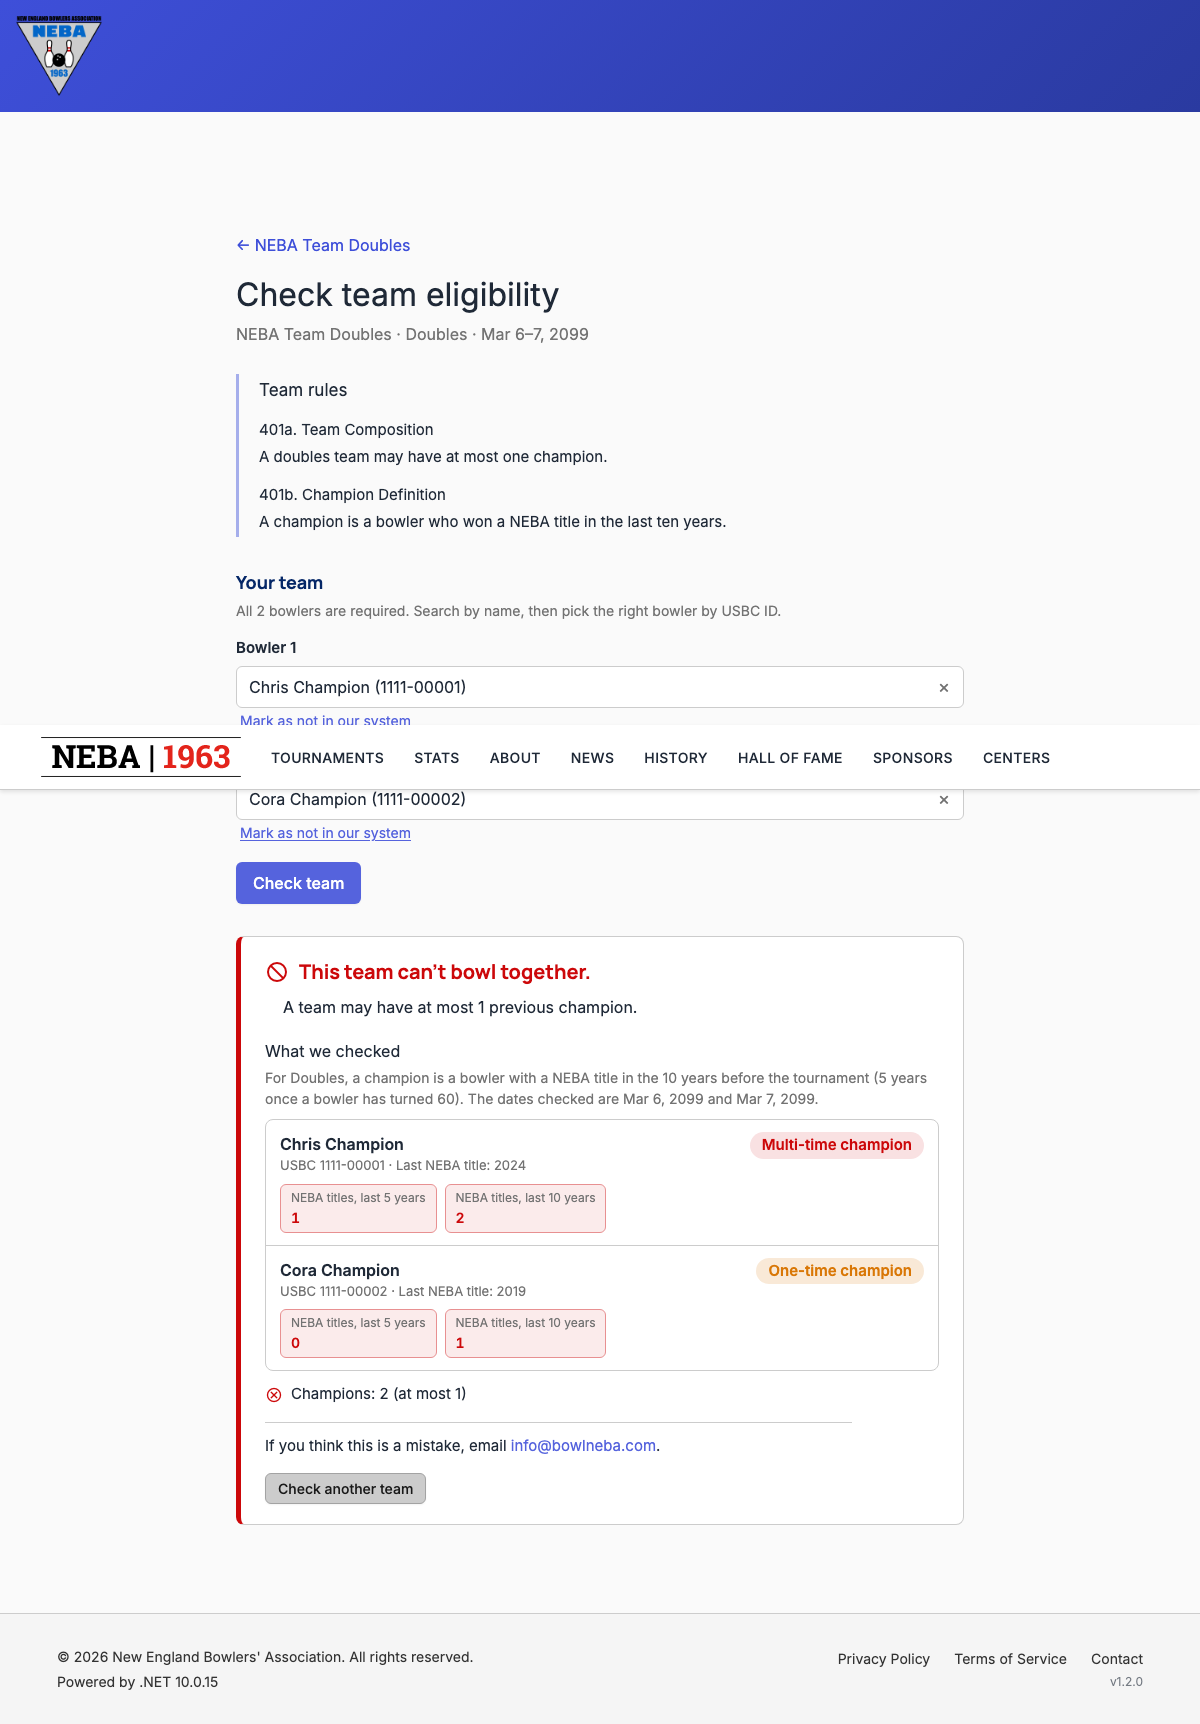
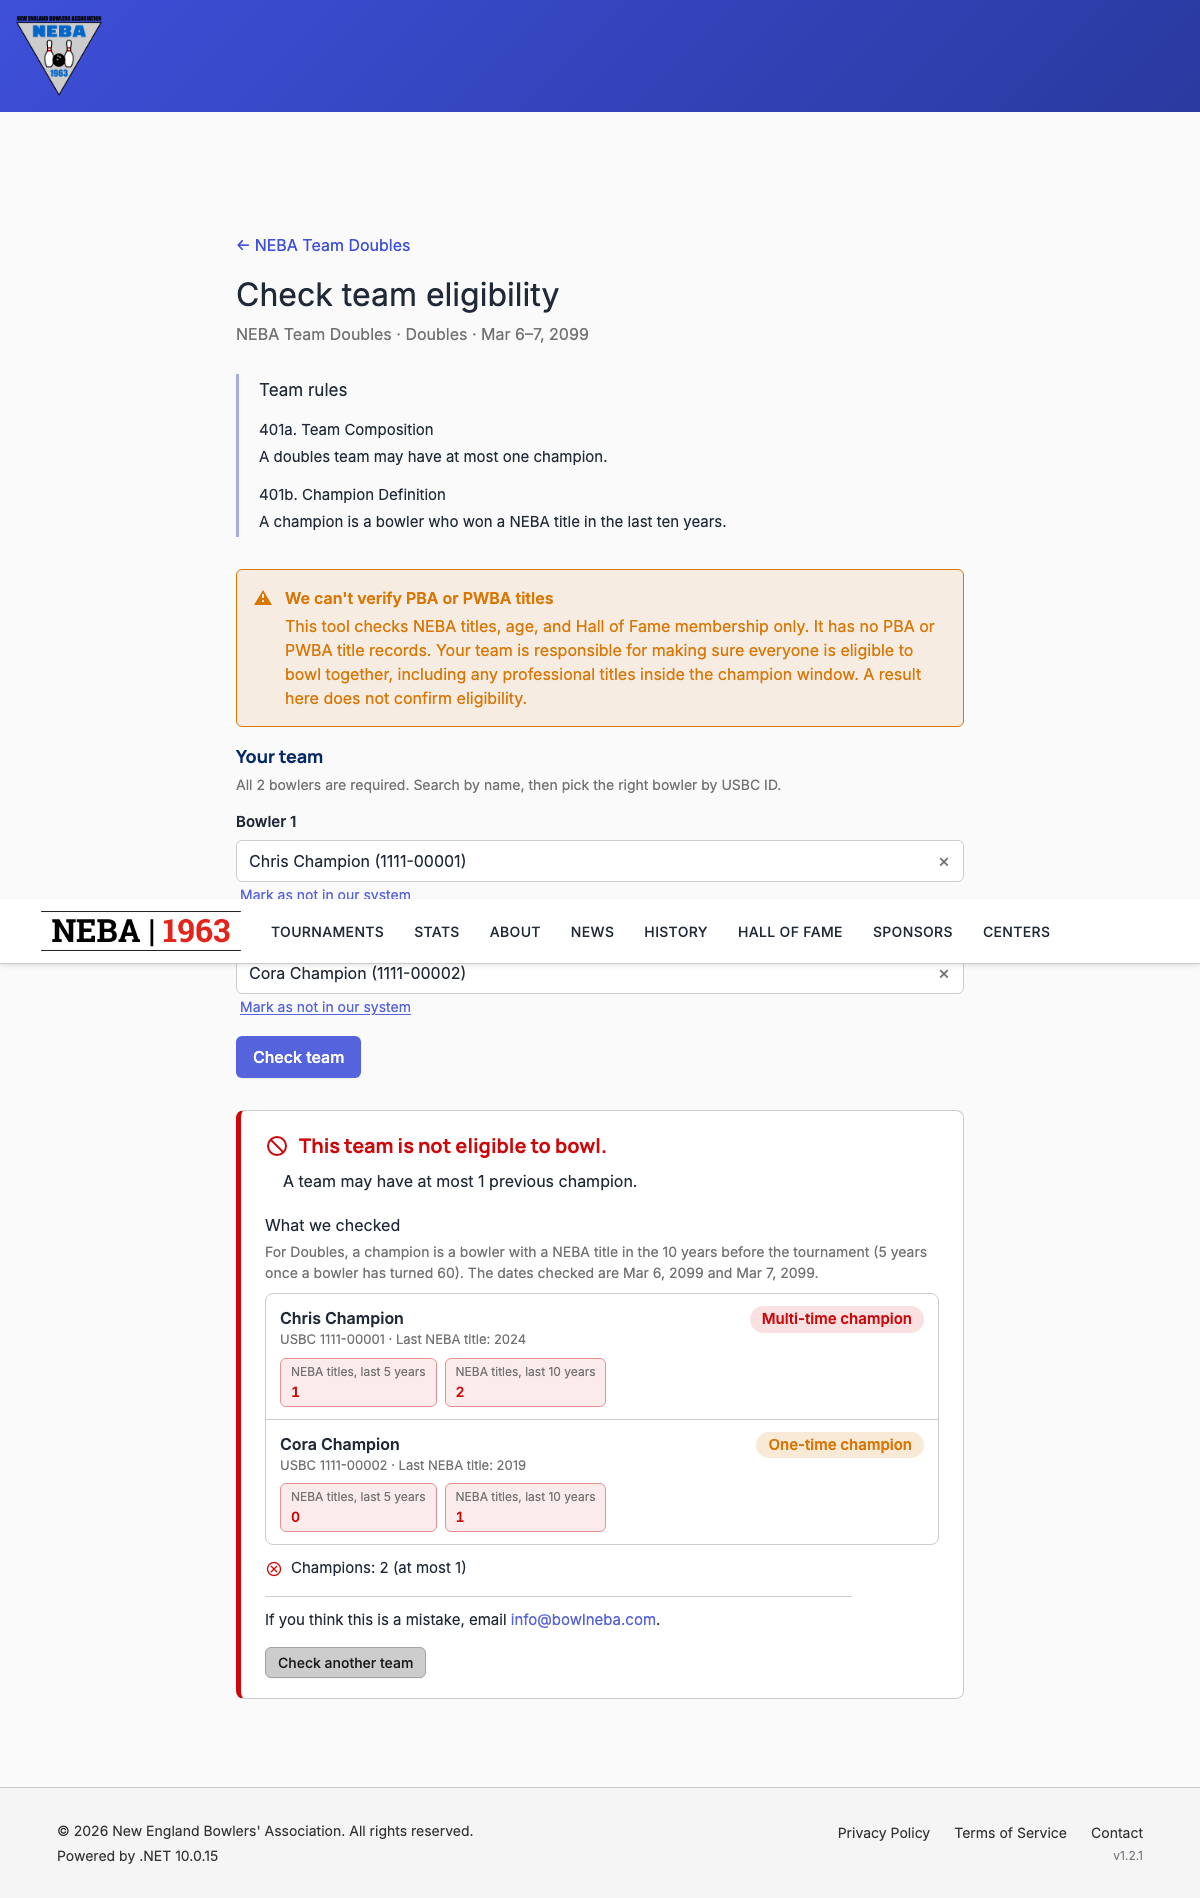
Clarify team eligibility wording and pluralize champion labels (#261)
* Pluralize champion labels by winner count

Use singular winner and champion labels when there is one champion, and plural labels for multiple champions. Update the test factory default and add coverage for both cases.

* Clarify professional-title eligibility warning

Show the PBA/PWBA verification limits before eligibility checks and with passing results. Update the help doc and add a test for the pre-check warning.

* Clarify team eligibility result wording

Use consistent eligibility language in the results panel, help page, and tests.

* Address pre-PR review: screenshots, alert e2e test, shared notice text

Regenerate team eligibility help screenshots and describe the PBA/PWBA
warning in the help doc. Share the notice headline between the alert and
the result note, add an e2e test for the alert, scope existing alert
locators, and move the champion pill label into a property.

* Address code review: share notice body, move note below facts

Share the PBA/PWBA responsibility text between the alert and the result
note, put the note back below the facts so the verdict leads, keep the
defending champions heading singular for an empty list, and fix a stale
XML doc. Regenerate help screenshots.

* Husky: dotnet format

* Set version to 1.3.0

---------

diff --git a/tests/e2e/TeamEligibility.spec.ts b/tests/e2e/TeamEligibility.spec.ts
@@ -38,6 +38,11 @@ test.describe('Team eligibility page', () => {
     await expect(checkTeamButton(page)).toBeDisabled();
   });
 
+  test('warns before the check that PBA and PWBA titles are not verified', async ({ page }) => {
+    await expect(page.locator('.neba-alert-title', { hasText: "We can't verify PBA or PWBA titles" })).toBeVisible();
+    await expect(page.locator('.neba-alert', { hasText: "We can't verify" })).toContainText('A result here does not confirm eligibility.');
+  });
+
   test('has a page title', async ({ page }) => {
     await expect(page).toHaveTitle('Check Team Eligibility - BowlNEBA');
   });
@@ -58,14 +63,14 @@ test.describe('Team eligibility page', () => {
     await expect(page.locator('.neba-autocomplete-option', { hasText: 'Chris Champion (1111-00001)' })).toBeVisible();
   });
 
-  test('says a team that is over the champion limit cannot bowl together, and shows how to ask about it', async ({ page }) => {
+  test('says a team that is over the champion limit is not eligible to bowl, and shows how to ask about it', async ({ page }) => {
     await pickBowler(page, 1, 'chris', 'Chris Champion');
     await pickBowler(page, 2, 'cora', 'Cora Champion');
     await expect(checkTeamButton(page)).toBeEnabled();
 
     await checkTeamButton(page).click();
 
-    await expect(page.locator('.result')).toContainText("This team can't bowl together.");
+    await expect(page.locator('.result')).toContainText("This team is not eligible to bowl.");
     await expect(page.locator('.result')).toContainText('A team may have at most 1 previous champion.');
     await expect(page.locator('.result__contact a')).toHaveAttribute('href', 'mailto:info@bowlneba.com');
   });
@@ -110,13 +115,13 @@ test.describe('Team eligibility page', () => {
     expect(overflows).toBe(false);
   });
 
-  test('says a team that is eligible can bowl together, with a note that pro titles are not checked', async ({ page }) => {
+  test('says a team that is eligible to bowl, with a note that pro titles are not checked', async ({ page }) => {
     await pickBowler(page, 1, 'chris', 'Chris Champion');
     await pickBowler(page, 2, 'nina', 'Nina Newcomer');
 
     await checkTeamButton(page).click();
 
-    await expect(page.locator('.result')).toContainText('This team can bowl together.');
+    await expect(page.locator('.result')).toContainText('This team is eligible to bowl.');
     await expect(page.locator('.result__note')).toContainText('PBA or PWBA');
     await expect(page.locator('.result__contact')).toHaveCount(0);
   });
@@ -207,8 +212,8 @@ test.describe('Team eligibility page — other cases', () => {
       await page.request.post(`http://localhost:5151/__mock/fail?path=${failPath}&status=400`);
       await checkTeamButton(page).click();
 
-      await expect(page.locator('.neba-alert-title')).toContainText('Unable to check this team');
-      await expect(page.locator('.neba-alert')).toContainText("We couldn't check this team.");
+      await expect(page.locator('.neba-alert-title', { hasText: 'Unable to check this team' })).toBeVisible();
+      await expect(page.locator('.neba-alert', { hasText: 'Unable to check this team' })).toContainText("We couldn't check this team.");
       await expect(page).toHaveURL(new RegExp(`${failPath}$`));
       await expect(page.locator('.result')).toHaveCount(0);
     } finally {
@@ -231,7 +236,7 @@ test.describe('Team eligibility page — other cases', () => {
           encodeURIComponent('This tournament needs exactly 2 bowlers.'));
       await checkTeamButton(page).click();
 
-      await expect(page.locator('.neba-alert')).toContainText('This tournament needs exactly 2 bowlers.');
+      await expect(page.locator('.neba-alert', { hasText: 'This tournament needs exactly 2 bowlers.' })).toBeVisible();
     } finally {
       await page.request.post(`http://localhost:5151/__mock/reset?path=${failPath}`);
     }

diff --git a/src/Neba.Website.Server/Tournaments/TeamEligibility/TeamEligibilityResultPanel.razor.css b/src/Neba.Website.Server/Tournaments/TeamEligibility/TeamEligibilityResultPanel.razor.css
@@ -38,12 +38,13 @@
 }
 
 .result__note {
-    margin-top: 0.875rem;
-    padding: 0.625rem 0.75rem;
+    margin: 0 0 1rem;
+    padding: 0.5rem 0.75rem;
+    border-left: 3px solid var(--neba-warning);
     border-radius: var(--neba-radius);
     background: var(--neba-gray-100);
-    font-size: 0.875rem;
-    color: var(--neba-gray-700);
+    font-size: 0.9375rem;
+    color: var(--neba-text);
 }
 
 .result__contact {

diff --git a/tests/Neba.Website.Tests/Tournaments/TeamEligibility/TeamEligibilityResultPanelTests.cs b/tests/Neba.Website.Tests/Tournaments/TeamEligibility/TeamEligibilityResultPanelTests.cs
@@ -20,14 +20,14 @@ public sealed class TeamEligibilityResultPanelTests : IDisposable
             .Add(x => x.Result, result)
             .Add(x => x.OnCheckAnother, () => onCheckAnother?.Invoke()));
 
-    [Fact(DisplayName = "Eligible should say the team can bowl together and show the pro-title note, with no contact line")]
+    [Fact(DisplayName = "Eligible should say the team is eligible to bowl and show the pro-title note, with no contact line")]
     public void Render_ShouldShowEligibleState()
     {
         // Arrange & Act
         var cut = Render(new TeamEligibilityResultViewModel { Outcome = TeamEligibilityOutcomeKind.Eligible });
 
         // Assert
-        cut.Markup.ShouldContain("This team can bowl together.");
+        cut.Markup.ShouldContain("This team is eligible to bowl.");
         cut.Find(".result--ok").ShouldNotBeNull();
         cut.Find(".result__note").TextContent.ShouldContain("PBA or PWBA");
         cut.FindAll(".result__contact").ShouldBeEmpty();
@@ -44,7 +44,7 @@ public sealed class TeamEligibilityResultPanelTests : IDisposable
         });
 
         // Assert
-        cut.Markup.ShouldContain("This team can't bowl together.");
+        cut.Markup.ShouldContain("This team is not eligible to bowl.");
         cut.FindAll("li").Select(item => item.TextContent).ShouldBe(["Too many champions.", "Not enough non-champions."]);
         cut.Find(".result__contact a").GetAttribute("href").ShouldBe("mailto:info@bowlneba.com");
         cut.FindAll(".result__note").ShouldBeEmpty();
@@ -69,9 +69,9 @@ public sealed class TeamEligibilityResultPanelTests : IDisposable
         var rows = cut.FindAll(".result__date");
         rows.Count.ShouldBe(2);
         rows[0].ClassList.ShouldContain("result__date--good");
-        rows[0].TextContent.ShouldContain("Can bowl together");
+        rows[0].TextContent.ShouldContain("Eligible to bowl");
         rows[1].ClassList.ShouldContain("result__date--bad");
-        rows[1].TextContent.ShouldContain("Can't bowl together. Both in one group.");
+        rows[1].TextContent.ShouldContain("Not eligible to bowl. Both in one group.");
         cut.FindAll(".result__note").Count.ShouldBe(1);
         cut.FindAll(".result__contact").Count.ShouldBe(1);
     }

diff --git a/tests/Neba.Website.Tests/Tournaments/DefendingChampionsTests.cs b/tests/Neba.Website.Tests/Tournaments/DefendingChampionsTests.cs
@@ -52,11 +52,24 @@ public sealed class DefendingChampionsTests : IDisposable
         cut.FindAll(".defending--panel").ShouldBeEmpty();
     }
 
+    [Fact(DisplayName = "Strip should tag a single champion as winner, not winners")]
+    public void Render_ShouldUseSingularWinner_WhenTeamHasOneChampion()
+    {
+        // Arrange
+        var team = DefendingTeamViewModelFactory.Create();
+
+        // Act
+        var cut = Render([team], DefendingChampionsLayout.Strip);
+
+        // Assert
+        cut.Find(".defending__tag").TextContent.Trim().ShouldBe("2025 Season winner");
+    }
+
     [Fact(DisplayName = "Strip should note a truncated tournament after the season")]
     public void Render_ShouldNoteTruncatedSource_InStripLayout()
     {
         // Arrange
-        var team = DefendingTeamViewModelFactory.Create(sourceTruncated: true);
+        var team = DefendingTeamViewModelFactory.Create(sourceTruncated: true, champions: ["Dave Smith", "Dana Jones"]);
 
         // Act
         var cut = Render([team], DefendingChampionsLayout.Strip);
@@ -114,6 +127,7 @@ public sealed class DefendingChampionsTests : IDisposable
     [Theory(DisplayName = "Heading should be plural for a team of more than one bowler or for two teams")]
     [InlineData(2, 1, "Defending champions", TestDisplayName = "A two-bowler team")]
     [InlineData(1, 1, "Defending champion", TestDisplayName = "One bowler, one team")]
+    [InlineData(0, 1, "Defending champion", TestDisplayName = "A team with no champions listed")]
     [InlineData(1, 2, "Defending champions", TestDisplayName = "One bowler, two teams")]
     public void Render_ShouldPluralizeHeading(int bowlers, int teams, string expected)
     {

diff --git a/tests/Neba.Website.Tests/Tournaments/TeamEligibility/CheckTeamEligibilityTests.cs b/tests/Neba.Website.Tests/Tournaments/TeamEligibility/CheckTeamEligibilityTests.cs
@@ -181,6 +181,20 @@ public sealed class CheckTeamEligibilityTests : IDisposable
         cut.Markup.ShouldContain("All " + teamSize + " bowlers are required.");
     }
 
+    [Fact(DisplayName = "Should warn before the check that PBA and PWBA titles are not verified")]
+    public void Render_ShouldWarnThatProfessionalTitlesAreNotVerified()
+    {
+        // Arrange
+        SetupTournament(TournamentType.Doubles, 2);
+
+        // Act
+        var cut = Render();
+
+        // Assert
+        cut.Markup.ShouldContain("We can't verify PBA or PWBA titles");
+        cut.Markup.ShouldContain("responsible for making sure everyone is eligible");
+    }
+
     [Fact(DisplayName = "Should show the team rules for the format")]
     public void Render_ShouldShowTeamRules()
     {
@@ -233,7 +247,7 @@ public sealed class CheckTeamEligibilityTests : IDisposable
         // Assert
         sentIds.ShouldBe(["id-1"]);
         sentUnknown.ShouldBe(1);
-        cut.Markup.ShouldContain("This team can bowl together.");
+        cut.Markup.ShouldContain("This team is eligible to bowl.");
     }
 
     [Fact(DisplayName = "Should show the reasons when the team is ineligible")]
@@ -254,7 +268,7 @@ public sealed class CheckTeamEligibilityTests : IDisposable
         await cut.FindAll("button").First(b => b.TextContent.Trim() == "Check team").ClickAsync();
 
         // Assert
-        cut.Markup.ShouldContain("This team can't bowl together.");
+        cut.Markup.ShouldContain("This team is not eligible to bowl.");
         cut.Markup.ShouldContain("Too many champions.");
         cut.Markup.ShouldContain("info@bowlneba.com");
     }

diff --git a/tests/Neba.Website.Tests/Tournaments/Detail/TournamentDetailTests.cs b/tests/Neba.Website.Tests/Tournaments/Detail/TournamentDetailTests.cs
@@ -343,6 +343,23 @@ titleEligible: true, winners: ["Alex Example", "Jamie Sample"]));
         cut.Find(".tournament-detail__champion-bar").TextContent.ShouldContain("Alex Example / Jamie Sample");
     }
 
+    [Theory(DisplayName = "Should label the hero champion pill singular or plural by winner count")]
+    [InlineData(1, "Tournament champion: Alex Example", TestDisplayName = "One winner")]
+    [InlineData(2, "Tournament champions: Alex Example / Jamie Sample", TestDisplayName = "Two winners")]
+    public void Render_ShouldPluralizeChampionPillLabel_ByWinnerCount(int winnerCount, string expected)
+    {
+        // Arrange
+        string[] winners = ["Alex Example", "Jamie Sample"];
+        SetupSuccessResponse(TournamentDetailResponseFactory.Create(
+            startDate: DateOnly.FromDateTime(DateTime.Today).AddDays(-30), status: TournamentStatus.Completed, titleEligible: true, winners: winners[..winnerCount]));
+
+        // Act
+        var cut = _ctx.Render<TournamentDetail>(p => p.Add(x => x.Id, TournamentDetailResponseFactory.ValidId));
+
+        // Assert
+        cut.Find(".td-hero__champion-pill").GetAttribute("aria-label").ShouldBe(expected);
+    }
+
     [Fact(DisplayName = "Should not render champion bar when no winners")]
     public void Render_ShouldNotRenderChampionBar_WhenNoWinners()
     {

diff --git a/src/Neba.Website.Server/Tournaments/TeamEligibility/ProfessionalTitlesNotice.cs b/src/Neba.Website.Server/Tournaments/TeamEligibility/ProfessionalTitlesNotice.cs
@@ -1,0 +1,19 @@
+namespace Neba.Website.Server.Tournaments.TeamEligibility;
+
+/// <summary>Shared wording for the notice that PBA and PWBA titles are not checked.</summary>
+internal static class ProfessionalTitlesNotice
+{
+    /// <summary>The lead sentence shown before and after a check.</summary>
+    public const string Headline = "We can't verify PBA or PWBA titles";
+
+    /// <summary>The team's duty, shown before and after a check.</summary>
+    public const string Responsibility =
+        "Your team is responsible for making sure everyone is eligible to bowl together, "
+        + "including any professional titles inside the champion window. "
+        + "A result here does not confirm eligibility.";
+
+    /// <summary>The full text of the pre-check alert.</summary>
+    public const string AlertMessage =
+        "This tool checks NEBA titles, age, and Hall of Fame membership only. "
+        + "It has no PBA or PWBA title records. " + Responsibility;
+}

diff --git a/src/Neba.Website.Server/Tournaments/TeamEligibility/ITeamEligibilityService.cs b/src/Neba.Website.Server/Tournaments/TeamEligibility/ITeamEligibilityService.cs
@@ -5,7 +5,7 @@ namespace Neba.Website.Server.Tournaments.TeamEligibility;
 internal interface ITeamEligibilityService
 {
     /// <summary>
-    /// Checks whether the team may bowl together. <paramref name="unknownBowlerCount"/> counts members not found
+    /// Checks whether the team is eligible to bowl. <paramref name="unknownBowlerCount"/> counts members not found
     /// in the system.
     /// </summary>
     Task<ErrorOr<TeamEligibilityResultViewModel>> CheckAsync(

diff --git a/tests/Neba.TestFactory/Tournaments/TeamEligibilityResponseFactory.cs b/tests/Neba.TestFactory/Tournaments/TeamEligibilityResponseFactory.cs
@@ -7,7 +7,7 @@ namespace Neba.TestFactory.Tournaments;
 public static class TeamEligibilityResponseFactory
 {
     public const string ValidOutcome = "Eligible";
-    public const string ValidSummary = "The team can bowl together.";
+    public const string ValidSummary = "The team is eligible to bowl.";
 
     public static TeamEligibilityResponse Create(
         string? outcome = null,

diff --git a/tests/Neba.TestFactory/Tournaments/DefendingTeamViewModelFactory.cs b/tests/Neba.TestFactory/Tournaments/DefendingTeamViewModelFactory.cs
@@ -18,5 +18,5 @@ public static class DefendingTeamViewModelFactory
             seasonDescription ?? ValidSeasonDescription,
             sourceTruncated ?? false,
             undefended ?? false,
-            champions ?? ["Dave Smith", "Dana Jones"]);
+            champions ?? ["Dave Smith"]);
 }

diff --git a/docs/help/check-team-eligibility.md b/docs/help/check-team-eligibility.md
@@ -14,7 +14,9 @@ None. The page is public: you do not need to sign in. It works for scheduled tea
 
 2. Read the **Team rules** at the top of the page: the team composition rule and the champion definition for this format, taken from the NEBA rules document.
 
-   ![The checker page with the team rules and one empty picker per team member](images/check-team-eligibility/checker-page.png)
+   A warning under the rules says the tool cannot verify PBA or PWBA titles and that your team is responsible for them.
+
+   ![The checker page with the team rules, the PBA and PWBA warning and one empty picker per team member](images/check-team-eligibility/checker-page.png)
 
 3. Under **Your team**, fill in every bowler. Type at least three letters of a name into a picker and choose the right bowler from the list. Each entry shows the bowler's name and USBC ID, so bowlers with the same name are easy to tell apart. A bowler you already chose does not show in the other pickers.
 
@@ -33,12 +35,12 @@ None. The page is public: you do not need to sign in. It works for scheduled tea
 | Answer | What it means |
 | --- | --- |
 | **These are the defending champions.** | The team is the previous tournament's winners (or, after a truncated tournament, the winners before it), so the champion limits do not apply. The answer names the tournament they won. |
-| **This team can bowl together.** | The team passes the champion, Hall of Fame and age rules on every date of the tournament. |
-| **This team can't bowl together.** | The team breaks a rule. Each reason is listed. |
+| **This team is eligible to bowl.** | The team passes the champion, Hall of Fame and age rules on every date of the tournament. |
+| **This team is not eligible to bowl.** | The team breaks a rule. Each reason is listed. |
 | **The answer depends on the squad date.** | The team passes on some days of the tournament and not others (for example, a bowler turns 50 during the event). Each date shows its own verdict. |
 
 ![A team that is over the champion limit, with the reason and the contact line](images/check-team-eligibility/result-not-eligible.png)
-![A team that can bowl together, with the note that pro titles are not checked](images/check-team-eligibility/result-eligible.png)
+![A team that is eligible to bowl, with the note that pro titles are not checked](images/check-team-eligibility/result-eligible.png)
 
 Under every answer except "defending champions", **What we checked** shows how each bowler counts: a line with the bowler's name, USBC ID and last NEBA title, and on the right whether they count as a non-champion, a one-time champion or a multi-time champion. Small cards under it show the facts that decided it:
 
@@ -48,7 +50,7 @@ Under every answer except "defending champions", **What we checked** shows how e
 
 A card turns red when that fact counts against a rule the team broke, and a short list under the bowlers gives each rule's tally, such as "Multi-time champions: 2 (at most 1)". A bowler marked as not in our system counts as a non-champion with no age. The counts are as of the tournament's first day.
 
-PBA and PWBA titles are not checked. When a team passes, the answer reminds you to make sure no one on it has a professional title inside the champion window.
+We cannot verify PBA or PWBA titles. A notice on the page says so before you check, and a team that passes sees it again with the answer. The team is responsible for making sure everyone is eligible to bowl together, including any professional titles inside the champion window. A passing answer does not confirm eligibility.
 
 ## Troubleshooting
 
